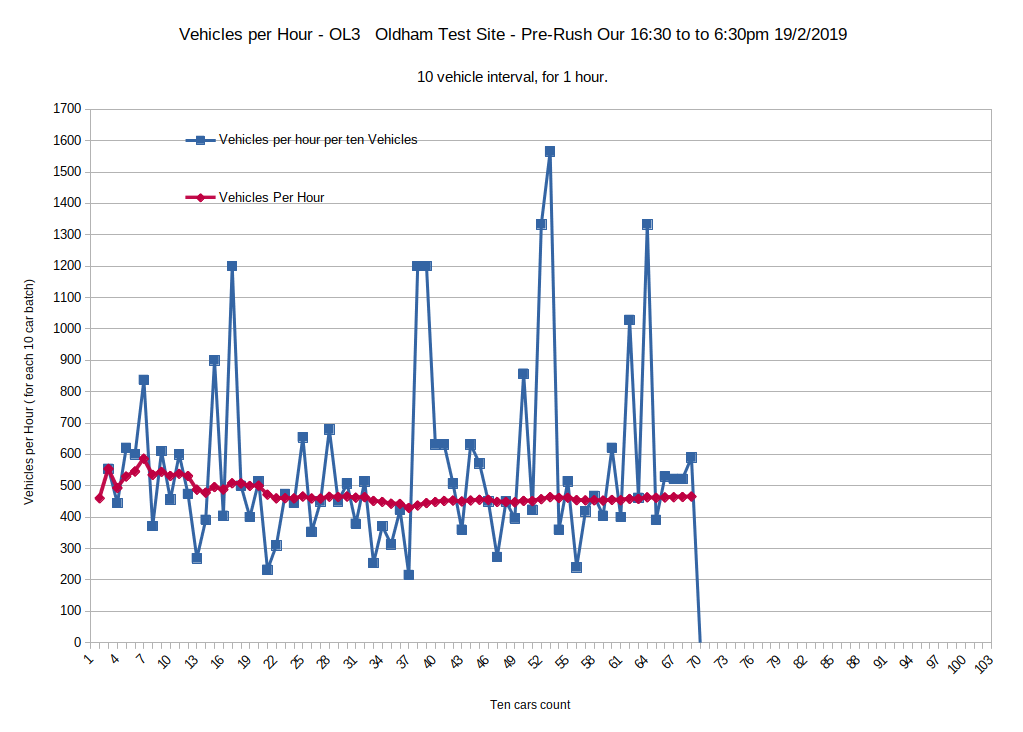
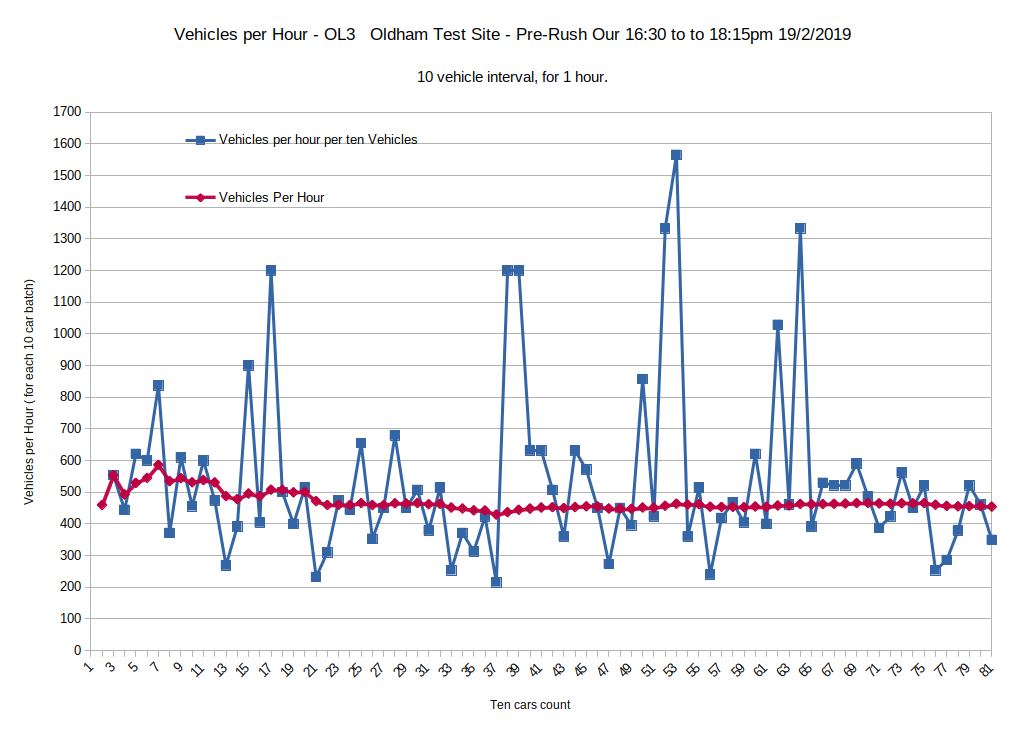
Update spreadsheet, charts Conclusion and links Traffic Survey 19/2/2-19

Changed region(s): [[0.0606, 0.1803, 0.9697, 0.9317], [0.1515, 0.0301, 0.8485, 0.0601], [0.0606, 0.1202, 0.0909, 0.2404]]

diff --git a/CaseStudies/2019-02-19 - Oldham Test Site2HrSurvey/TrafficDataCollectionMethodology.md b/CaseStudies/2019-02-19 - Oldham Test Site2HrSurvey/TrafficDataCollectionMethodology.md
@@ -1,46 +1,26 @@
-### Results of 1 Hour 20 mins Vehicle Survey - Diggle 16/2/2019 12:15
+### Results of 2 Hour Vehicle Survey - Diggle 19/2/2019 16:30  
 
-445    - Average Vehicles Per Hour Survey  
+445    - For First Hour of Survey Average Vehicles Per Hour Survey  
 
-The charts show a continuing average based on the 1st hour count, for an extra 20mins.
-
-
-The traffic level was down the 500's, but is still close to "rush hour traffic" levels, noise and congestion.
+The charts show a continuing average based on the 1st hour count, for an extra 44mins.
 
 
-There were 4 occasions of over 1300 vehicles per hour. The road was observably congested, as can be seen from the chart, large increase in traffic is due to batch queuing.
+There were 6 occasions of about 1000 vehicles per hour, 10 cases where traffic was over 700 in the first hour. The road was observably congested, as can be seen from the chart, large increase in traffic is due to batch queuing.
 
-There were 2 of those occasions when traffic was above 1700 vehicles per hour. From observing the traffic video this level of traffic is already causing sever congestion, pollution and noise in the narrow road.  
+This case was novel in that congestio continued over 2 blocks of 10 cars on 2 occasions
 
-The average after the 1hour count survey was completed shows continuing sever levels of traffic.
-
+The average after the 1hour count survey was completed shows continuing sever levels of traffic. It can be seen where small increases in traffic causes bunching.
 
 
 #### Vehicles per hour against time measured  
 
 
-![Vehicles /hour - Oldham 16.2.2019](https://raw.githubusercontent.com/wrapperband/OpenTrafficSurvey/master/CaseStudies/2019-02-16%20-%20Oldham%20Test%20Site1HrSurvey/Images/2019-2-16-vph-01.png)
+![Vehicles /hour - Oldham 19.2.2019](https://raw.githubusercontent.com/wrapperband/OpenTrafficSurvey/master/CaseStudies/2019-02-19%20-%20Oldham%20Test%20Site2HrSurvey/Images/2019-2-19-vph-01.pngg)
 
 
 #### Vehicles per hour for each 10 car sample  
 
-![Vehicles /hour - Oldham 16.2.2019](https://raw.githubusercontent.com/wrapperband/OpenTrafficSurvey/master/CaseStudies/2019-02-16%20-%20Oldham%20Test%20Site1HrSurvey/Images/2019-2-16-vph-02.png)
-
-
-
-#### Example of danger - pedestrains forced to walk on road, few regulation pavements  
-
-
-![Vehicles /hour - Oldham 16.2.2019](https://raw.githubusercontent.com/wrapperband/OpenTrafficSurvey/master/CaseStudies/2019-02-16%20-%20Oldham%20Test%20Site1HrSurvey/Images/2019-feb-1-4.png)
-
-
-![Vehicles /hour - Oldham 16.2.2019](https://raw.githubusercontent.com/wrapperband/OpenTrafficSurvey/master/CaseStudies/2019-02-16%20-%20Oldham%20Test%20Site1HrSurvey/Images/2019-feb-1-4b.png)
-
-
-![Vehicles /hour - Oldham 16.2.2019](https://raw.githubusercontent.com/wrapperband/OpenTrafficSurvey/master/CaseStudies/2019-02-16%20-%20Oldham%20Test%20Site1HrSurvey/Images/2019-feb-1-4c.png)
-
-
-![Vehicles /hour - Oldham 16.2.2019](https://raw.githubusercontent.com/wrapperband/OpenTrafficSurvey/master/CaseStudies/2019-02-16%20-%20Oldham%20Test%20Site1HrSurvey/Images/2019-feb-1-4d.png)
+![Vehicles /hour - Oldham 18.2.2019](https://raw.githubusercontent.com/wrapperband/OpenTrafficSurvey/master/CaseStudies/2019-02-19%20-%20Oldham%20Test%20Site2HrSurvey/Images/2019-2-19-vph-02.png)
 
 
 

diff --git a/CaseStudies/2019-02-19 - Oldham Test Site2HrSurvey/README.md b/CaseStudies/2019-02-19 - Oldham Test Site2HrSurvey/README.md
@@ -1,31 +1,26 @@
 ### Results of 2 Hour Vehicle Survey - Diggle 19/2/2019 16:30  
 
-375    - For First Hour of Survey Average Vehicles Per Hour Survey  
+445    - For First Hour of Survey Average Vehicles Per Hour Survey  
 
-The charts show a continuing average based on the 1st hour count, for an extra 20mins.
-
-
-The traffic level was down from the "rush hour"  500 vehicles per hour at 10:00am, but is still close to "rush hour traffic" levels, noise and congestion.
+The charts show a continuing average based on the 1st hour count, for an extra 44mins.
 
 
-There were 1 occasions of about 1000 vehicles per hour, 2 cases where traffic was over 700 in the first hour. The road was observably congested, as can be seen from the chart, large increase in traffic is due to batch queuing.
+There were 6 occasions of about 1000 vehicles per hour, 10 cases where traffic was over 700 in the first hour. The road was observably congested, as can be seen from the chart, large increase in traffic is due to batch queuing.
 
-The traffic was above 500 vehicles per hour  for about a third of the time. From observing the traffic video this level of traffic is already causing sever congestion, pollution and noise in the narrow road. It can be seen that there are less peaks in traffic over 1000, for 375 vehicles per hour and the the increasing number of peaks as the traffic level increases (above about 270) shows Sever congestion, ie. more than 50% traffic has to  stop to allow oncoming traffic past on the narrow road. 
+This case was novel in that congestio continued over 2 blocks of 10 cars on 2 occasions
 
 The average after the 1hour count survey was completed shows continuing sever levels of traffic. It can be seen where small increases in traffic causes bunching.
-
-The survey shows there are high levels of traffic for the road and lack of regulation pavements, even at "non rush hour times".
 
 
 #### Vehicles per hour against time measured  
 
 
-![Vehicles /hour - Oldham 18.2.2019](https://raw.githubusercontent.com/wrapperband/OpenTrafficSurvey/master/CaseStudies/2019-02-18%20-%20Oldham%20Test%20Site1HrSurvey/Images/2019-2-18-vph-01.png)
+![Vehicles /hour - Oldham 19.2.2019](https://raw.githubusercontent.com/wrapperband/OpenTrafficSurvey/master/CaseStudies/2019-02-19%20-%20Oldham%20Test%20Site2HrSurvey/Images/2019-2-19-vph-01.pngg)
 
 
 #### Vehicles per hour for each 10 car sample  
 
-![Vehicles /hour - Oldham 18.2.2019](https://raw.githubusercontent.com/wrapperband/OpenTrafficSurvey/master/CaseStudies/2019-02-18%20-%20Oldham%20Test%20Site1HrSurvey/Images/2019-2-18-vph-02.png)
+![Vehicles /hour - Oldham 18.2.2019](https://raw.githubusercontent.com/wrapperband/OpenTrafficSurvey/master/CaseStudies/2019-02-19%20-%20Oldham%20Test%20Site2HrSurvey/Images/2019-2-19-vph-02.png)
 
 
 
